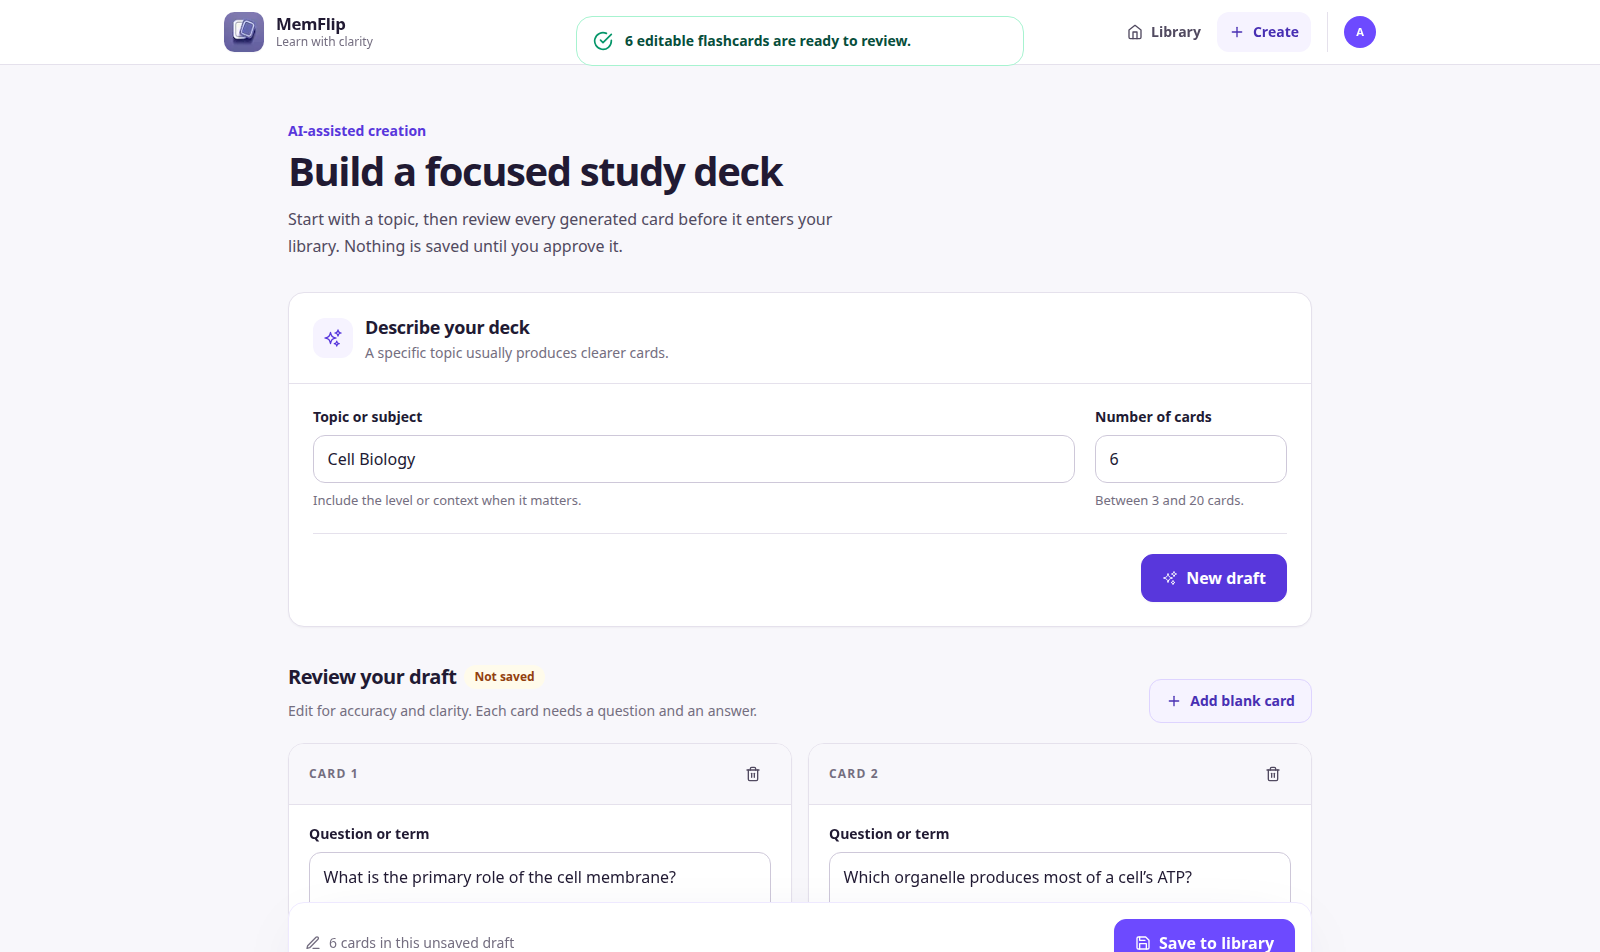
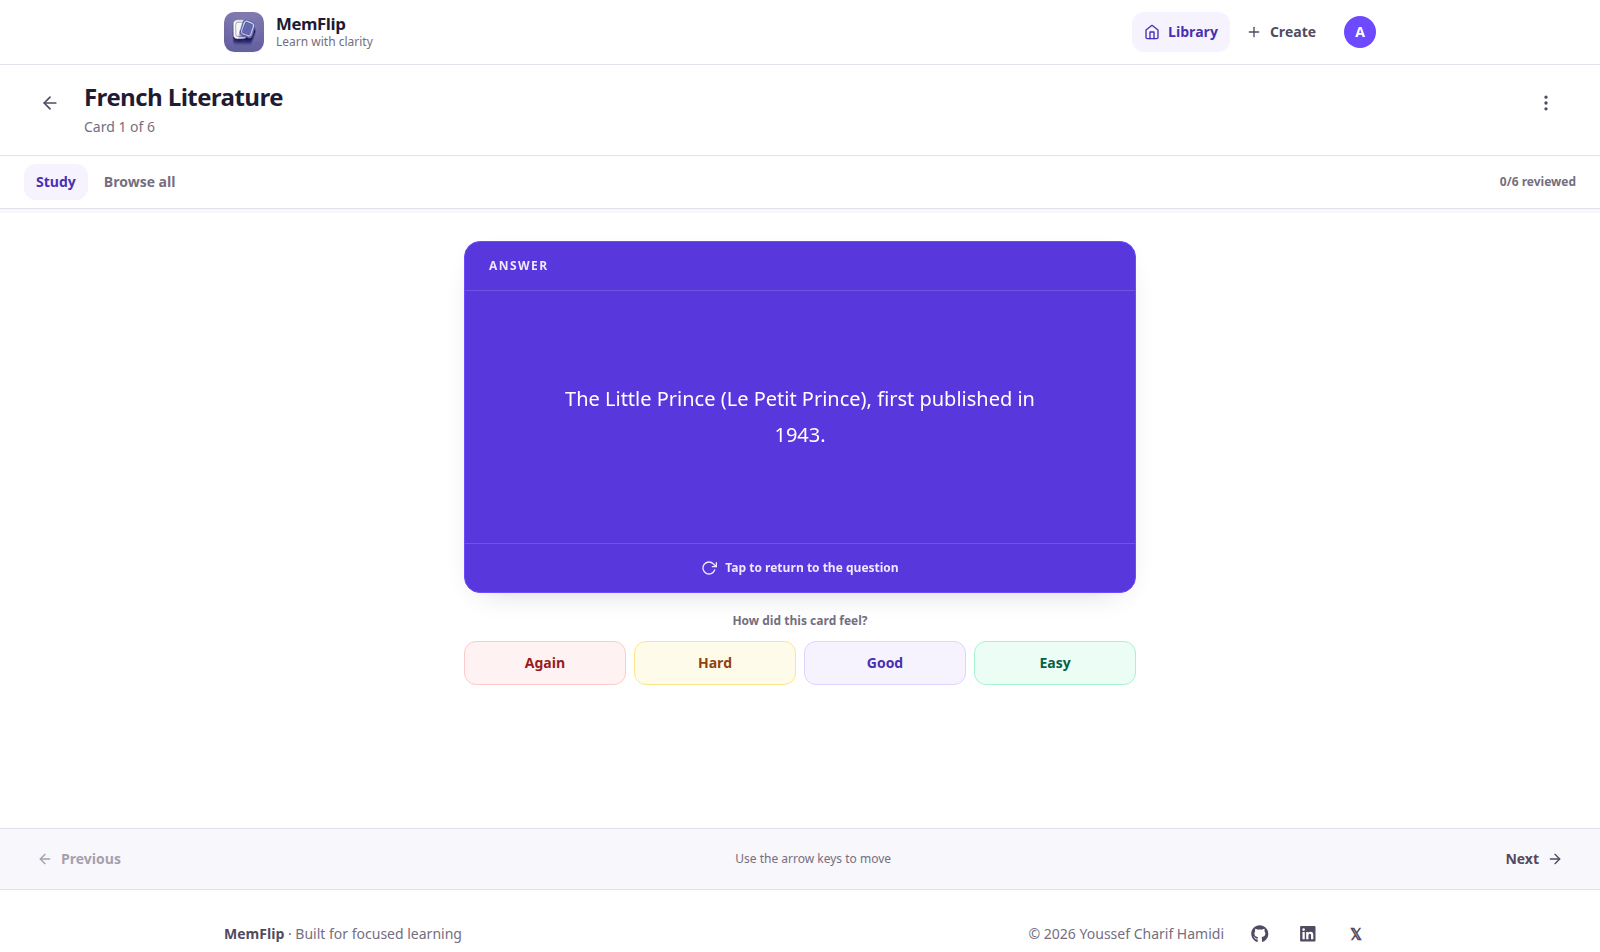
Show MemFlip review session

diff --git a/lib/i18n.ts b/lib/i18n.ts
@@ -201,7 +201,7 @@ export const copy = {
             "Keyboard-friendly study sessions with recall ratings",
           ],
           imageAlt:
-            "MemFlip deck editor showing six AI-generated flashcards ready to review",
+            "MemFlip study session showing a revealed flashcard with recall rating controls",
         },
         {
           description:
@@ -496,7 +496,7 @@ export const copy = {
             "Sessions au clavier avec autoévaluation du rappel",
           ],
           imageAlt:
-            "Éditeur de paquets MemFlip affichant six flashcards générées par IA, prêtes à être relues",
+            "Session d’étude MemFlip affichant une flashcard révélée et les options d’autoévaluation",
         },
         {
           description:

diff --git a/data/portfolio.ts b/data/portfolio.ts
@@ -43,7 +43,7 @@ export const supportingProjects = [
     technology: ["Next.js", "TypeScript", "Groq", "Clerk", "Firestore"],
     image: "/memflip3.png",
     imageAlt:
-      "MemFlip deck editor showing six AI-generated flashcards ready to review",
+      "MemFlip study session showing a revealed flashcard with recall rating controls",
     live: "https://mem-flip.live",
     source: "https://github.com/Chareeef/MemFlip",
   },
